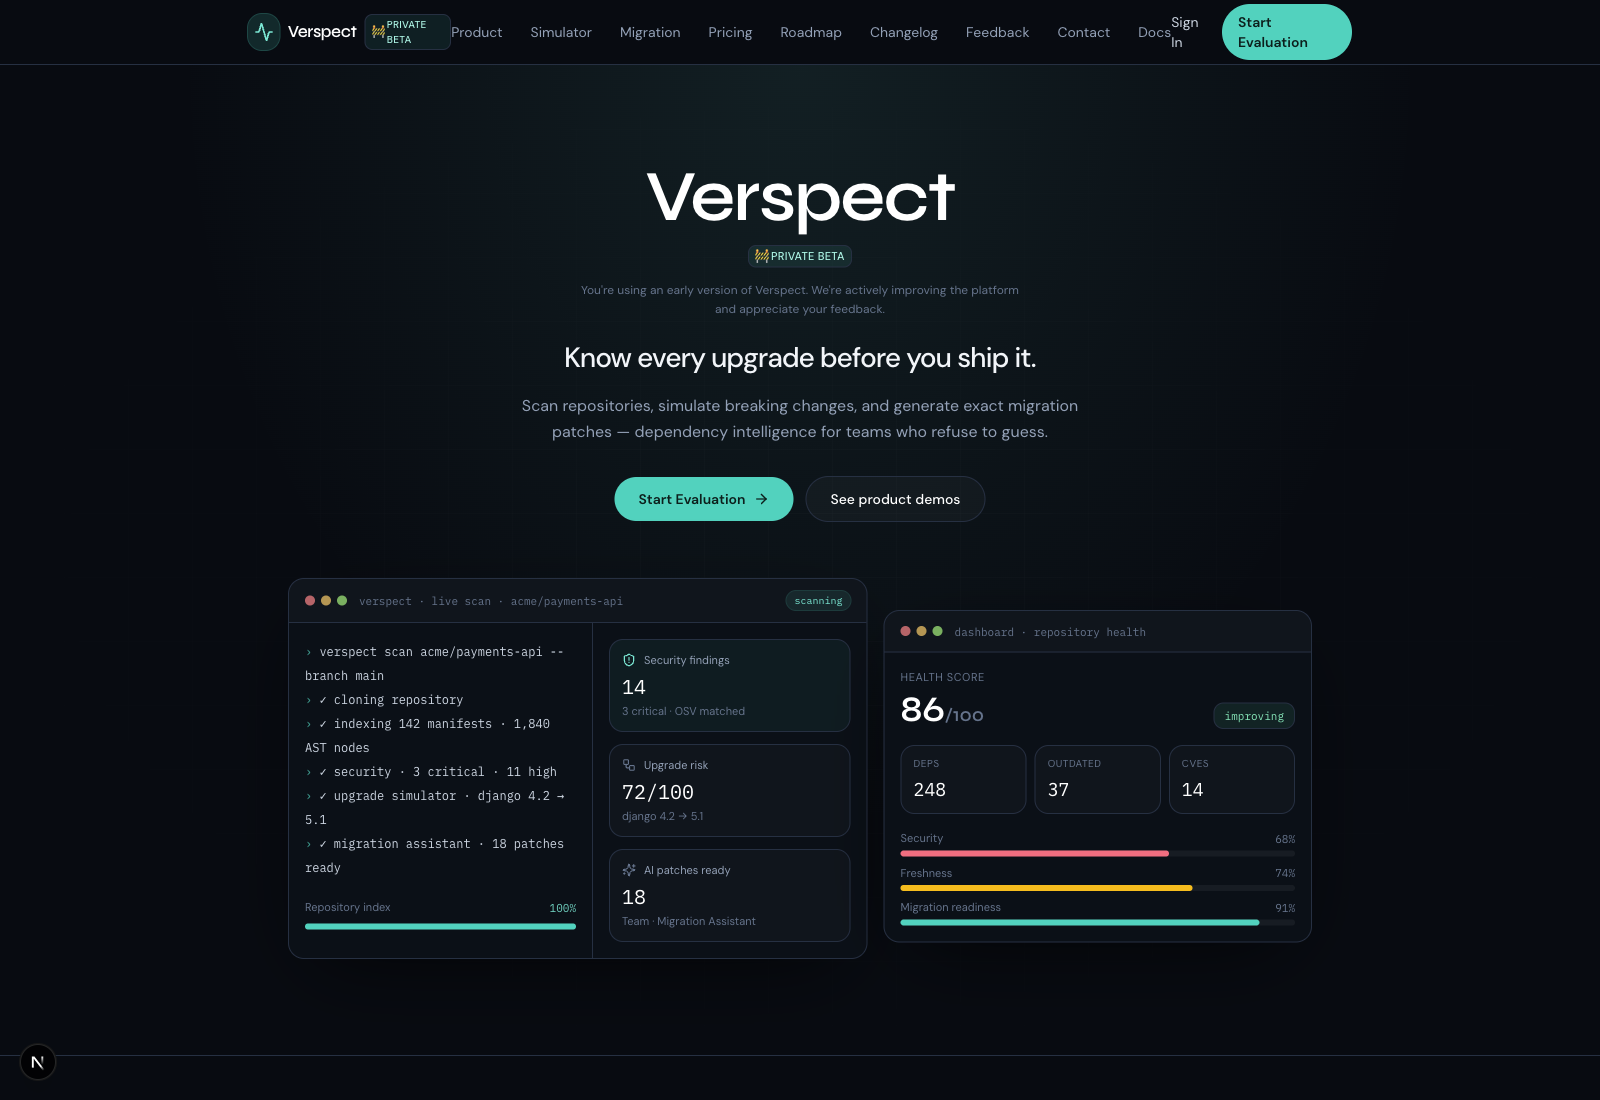
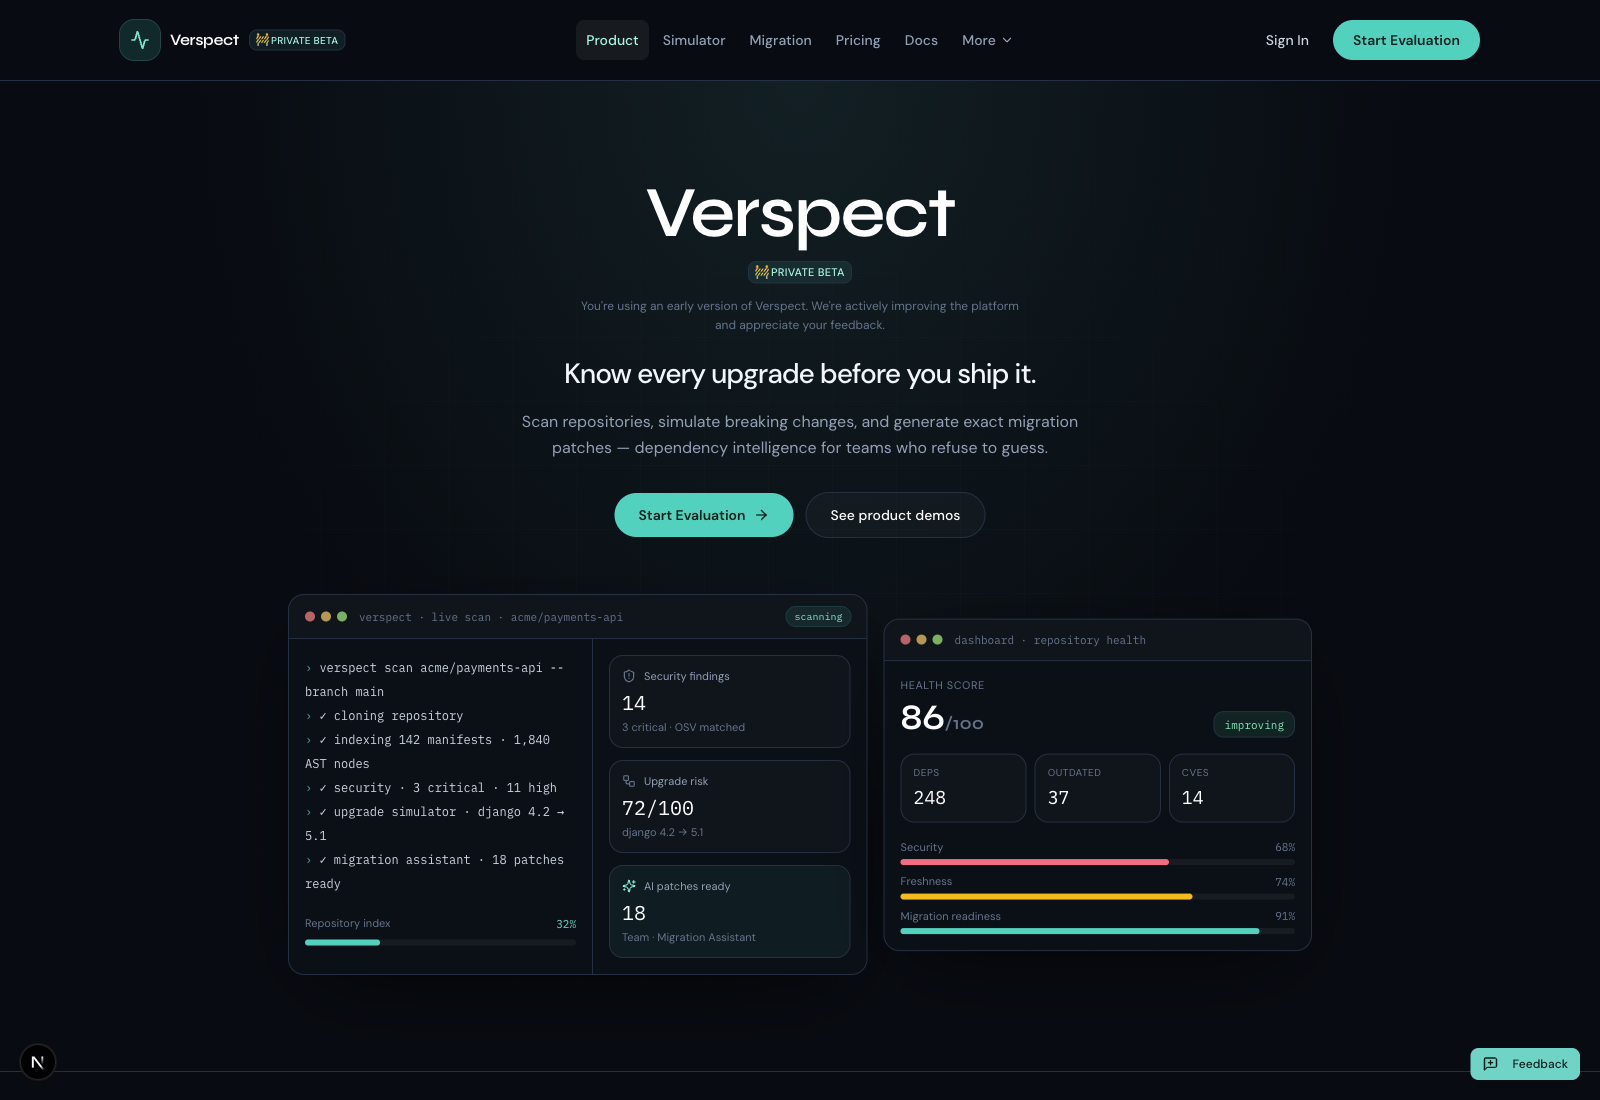
fix: improve marketing navigation

diff --git a/frontend/src/components/marketing/nav.tsx b/frontend/src/components/marketing/nav.tsx
@@ -1,91 +1,229 @@
 "use client";
 
 import Link from "next/link";
-import { useState } from "react";
-import { Activity, Menu, X } from "lucide-react";
+import { usePathname } from "next/navigation";
+import { useEffect, useRef, useState } from "react";
+import { Activity, ChevronDown, Menu, X } from "lucide-react";
 import { cn } from "@/lib/utils";
 import { PrivateBetaBadge } from "@/components/beta/private-beta-badge";
+import {
+  DropdownMenu,
+  DropdownMenuContent,
+  DropdownMenuItem,
+  DropdownMenuTrigger,
+} from "@/components/ui/dropdown-menu";
 
-const links = [
+const primaryLinks = [
   { href: "/#scan-demo", label: "Product" },
   { href: "/#simulator", label: "Simulator" },
   { href: "/#migration", label: "Migration" },
   { href: "/pricing", label: "Pricing" },
+  { href: "/docs", label: "Docs" },
+];
+
+const moreLinks = [
   { href: "/roadmap", label: "Roadmap" },
   { href: "/changelog", label: "Changelog" },
   { href: "/feedback", label: "Feedback" },
   { href: "/contact", label: "Contact" },
-  { href: "/docs", label: "Docs" },
 ];
+
+const mobileLinks = [...primaryLinks, ...moreLinks];
+
+const navItemClass =
+  "inline-flex min-h-10 items-center justify-center whitespace-nowrap rounded-md px-2.5 text-sm font-medium transition-colors focus-visible:outline focus-visible:outline-2 focus-visible:outline-offset-2 focus-visible:outline-teal-300";
 
 export function MarketingNav() {
   const [open, setOpen] = useState(false);
+  const [hash, setHash] = useState("");
+  const pathname = usePathname();
+  const menuButtonRef = useRef<HTMLButtonElement>(null);
+  const firstMobileLinkRef = useRef<HTMLAnchorElement>(null);
+
+  useEffect(() => {
+    const syncHash = () => setHash(window.location.hash);
+    syncHash();
+    window.addEventListener("hashchange", syncHash);
+    return () => window.removeEventListener("hashchange", syncHash);
+  }, [pathname]);
+
+  useEffect(() => {
+    setOpen(false);
+  }, [pathname]);
+
+  useEffect(() => {
+    if (!open) return;
+
+    firstMobileLinkRef.current?.focus();
+    const closeOnEscape = (event: KeyboardEvent) => {
+      if (event.key === "Escape") {
+        setOpen(false);
+        menuButtonRef.current?.focus();
+      }
+    };
+    window.addEventListener("keydown", closeOnEscape);
+    return () => window.removeEventListener("keydown", closeOnEscape);
+  }, [open]);
+
+  const isActive = (href: string) => {
+    if (href.startsWith("/#")) {
+      if (pathname !== "/") return false;
+      const targetHash = href.slice(1);
+      return (hash || "#scan-demo") === targetHash;
+    }
+    return pathname === href || pathname.startsWith(`${href}/`);
+  };
+
+  const linkClass = (href: string) =>
+    cn(
+      navItemClass,
+      isActive(href)
+        ? "bg-white/[0.06] text-teal-200"
+        : "text-slate-400 hover:bg-white/[0.04] hover:text-white",
+    );
+  const moreActive = moreLinks.some((link) => isActive(link.href));
+
   return (
     <header className="sticky top-0 z-50 border-b border-white/10 bg-[#070b12]/80 backdrop-blur-xl">
-      <div className="mx-auto flex h-16 max-w-6xl items-center justify-between px-4 sm:px-6">
-        <Link href="/" className="flex items-center gap-2">
-          <span className="flex h-9 w-9 items-center justify-center rounded-xl bg-teal-400/15 text-teal-300 ring-1 ring-teal-400/30">
+      <div className="mx-auto grid h-20 max-w-[1440px] grid-cols-[minmax(0,1fr)_auto] items-center gap-3 px-4 sm:px-6 xl:grid-cols-[minmax(250px,1fr)_auto_minmax(250px,1fr)] xl:gap-6 xl:px-10">
+        <Link
+          href="/"
+          aria-label="Verspect home"
+          className="flex min-w-0 items-center gap-2.5 whitespace-nowrap justify-self-start focus-visible:outline focus-visible:outline-2 focus-visible:outline-offset-4 focus-visible:outline-teal-300"
+        >
+          <span className="flex h-10 w-10 shrink-0 items-center justify-center rounded-xl bg-teal-400/15 text-teal-300 ring-1 ring-teal-400/30">
             <Activity className="h-5 w-5" />
           </span>
-          <span className="font-[family-name:var(--font-display)] text-sm font-semibold tracking-tight text-white sm:text-base">
+          <span className="font-[family-name:var(--font-display)] text-base font-semibold tracking-tight text-white">
             Verspect
           </span>
-          <PrivateBetaBadge variant="marketing" />
+          <PrivateBetaBadge variant="marketing" className="shrink-0" />
         </Link>
-        <nav className="hidden items-center gap-7 md:flex">
-          {links.map((l) => (
+
+        <nav aria-label="Primary navigation" className="hidden items-center gap-1 xl:flex">
+          {primaryLinks.map((link) => (
             <Link
-              key={l.href}
-              href={l.href}
-              className="text-sm text-slate-400 transition hover:text-white"
+              key={link.href}
+              href={link.href}
+              className={linkClass(link.href)}
+              aria-current={isActive(link.href) ? "page" : undefined}
             >
-              {l.label}
+              {link.label}
             </Link>
           ))}
+          <DropdownMenu>
+            <DropdownMenuTrigger
+              className={cn(
+                navItemClass,
+                moreActive
+                  ? "bg-white/[0.06] text-teal-200"
+                  : "text-slate-400 hover:bg-white/[0.04] hover:text-white",
+              )}
+              aria-label="More pages"
+            >
+              More <ChevronDown aria-hidden="true" className="ml-1 h-3.5 w-3.5" />
+            </DropdownMenuTrigger>
+            <DropdownMenuContent
+              align="center"
+              sideOffset={10}
+              className="min-w-48 border-white/10 bg-[#0b111b] p-1.5 text-slate-200 shadow-2xl"
+            >
+              {moreLinks.map((link) => (
+                <DropdownMenuItem key={link.href} asChild>
+                  <Link
+                    href={link.href}
+                    aria-current={isActive(link.href) ? "page" : undefined}
+                    className={cn(
+                      "min-h-10 px-3 text-sm focus:bg-white/[0.08] focus:text-white",
+                      isActive(link.href) && "text-teal-200",
+                    )}
+                  >
+                    {link.label}
+                  </Link>
+                </DropdownMenuItem>
+              ))}
+            </DropdownMenuContent>
+          </DropdownMenu>
         </nav>
-        <div className="hidden items-center gap-3 md:flex">
-          <Link href="/login" className="text-sm text-slate-300 hover:text-white">
+
+        <div className="hidden items-center justify-self-end gap-5 xl:flex">
+          <Link
+            href="/login"
+            className="whitespace-nowrap rounded-md px-1 py-2 text-sm font-medium text-slate-300 transition-colors hover:text-white focus-visible:outline focus-visible:outline-2 focus-visible:outline-offset-4 focus-visible:outline-teal-300"
+          >
             Sign In
           </Link>
           <Link
             href="/signup"
-            className="rounded-full bg-teal-400 px-4 py-2 text-sm font-semibold text-[#04201c] transition hover:bg-teal-300"
+            className="inline-flex min-h-10 shrink-0 items-center justify-center whitespace-nowrap rounded-full bg-teal-400 px-5 py-2.5 text-sm font-semibold leading-none text-[#04201c] transition-colors hover:bg-teal-300 focus-visible:outline focus-visible:outline-2 focus-visible:outline-offset-4 focus-visible:outline-teal-200"
           >
             Start Evaluation
           </Link>
         </div>
         <button
           type="button"
-          className="text-slate-300 md:hidden"
-          aria-label="Menu"
+          ref={menuButtonRef}
+          className="inline-flex h-11 w-11 items-center justify-center justify-self-end rounded-lg border border-white/10 text-slate-200 transition-colors hover:bg-white/[0.06] hover:text-white focus-visible:outline focus-visible:outline-2 focus-visible:outline-offset-2 focus-visible:outline-teal-300 xl:hidden"
+          aria-label={open ? "Close navigation menu" : "Open navigation menu"}
+          aria-expanded={open}
+          aria-controls="mobile-navigation-panel"
           onClick={() => setOpen((v) => !v)}
         >
-          {open ? <X /> : <Menu />}
+          {open ? (
+            <X aria-hidden="true" className="h-5 w-5" />
+          ) : (
+            <Menu aria-hidden="true" className="h-5 w-5" />
+          )}
         </button>
       </div>
-      <div className={cn("border-t border-white/10 md:hidden", open ? "block" : "hidden")}>
-        <div className="flex flex-col gap-2 px-4 py-4">
-          {links.map((l) => (
+
+      <div
+        id="mobile-navigation-panel"
+        className={cn(
+          "border-t border-white/10 bg-[#070b12] xl:hidden",
+          open ? "block" : "hidden",
+        )}
+      >
+        <nav
+          aria-label="Mobile navigation"
+          className="mx-auto max-h-[calc(100dvh-5rem)] max-w-[1440px] overflow-y-auto px-4 py-3 sm:px-6"
+        >
+          <div className="flex flex-col gap-1">
+            {mobileLinks.map((link, index) => (
+              <Link
+                key={link.href}
+                ref={index === 0 ? firstMobileLinkRef : undefined}
+                href={link.href}
+                className={cn(
+                  "flex min-h-11 items-center rounded-lg px-3 text-sm font-medium transition-colors focus-visible:outline focus-visible:outline-2 focus-visible:outline-offset-1 focus-visible:outline-teal-300",
+                  isActive(link.href)
+                    ? "bg-white/[0.06] text-teal-200"
+                    : "text-slate-300 hover:bg-white/[0.04] hover:text-white",
+                )}
+                aria-current={isActive(link.href) ? "page" : undefined}
+                onClick={() => setOpen(false)}
+              >
+                {link.label}
+              </Link>
+            ))}
+          </div>
+          <div className="mt-3 flex flex-col gap-2 border-t border-white/10 pt-3">
             <Link
-              key={l.href}
-              href={l.href}
-              className="py-2 text-sm text-slate-300"
+              href="/login"
+              className="flex min-h-11 items-center rounded-lg px-3 text-sm font-medium text-slate-300 transition-colors hover:bg-white/[0.04] hover:text-white focus-visible:outline focus-visible:outline-2 focus-visible:outline-offset-1 focus-visible:outline-teal-300"
               onClick={() => setOpen(false)}
             >
-              {l.label}
+              Sign In
             </Link>
-          ))}
-          <Link href="/login" className="py-2 text-sm text-slate-300" onClick={() => setOpen(false)}>
-            Sign In
-          </Link>
-          <Link
-            href="/signup"
-            className="rounded-full bg-teal-400 px-4 py-2 text-center text-sm font-semibold text-[#04201c]"
-            onClick={() => setOpen(false)}
-          >
-            Start Evaluation
-          </Link>
-        </div>
+            <Link
+              href="/signup"
+              className="inline-flex min-h-11 items-center justify-center rounded-full bg-teal-400 px-5 py-2.5 text-sm font-semibold leading-none text-[#04201c] transition-colors hover:bg-teal-300 focus-visible:outline focus-visible:outline-2 focus-visible:outline-offset-2 focus-visible:outline-teal-200"
+              onClick={() => setOpen(false)}
+            >
+              Start Evaluation
+            </Link>
+          </div>
+        </nav>
       </div>
     </header>
   );

diff --git a/frontend/src/components/marketing/nav.test.tsx b/frontend/src/components/marketing/nav.test.tsx
@@ -1,0 +1,89 @@
+import type { ComponentProps } from "react";
+import { fireEvent, render, screen, waitFor, within } from "@testing-library/react";
+import { afterEach, describe, expect, it, vi } from "vitest";
+import { MarketingNav } from "@/components/marketing/nav";
+
+const navigation = vi.hoisted(() => ({ pathname: "/" }));
+
+vi.mock("next/navigation", () => ({
+  usePathname: () => navigation.pathname,
+}));
+
+vi.mock("next/link", () => ({
+  default: ({ href, children, ...props }: ComponentProps<"a">) => (
+    <a href={href} {...props}>
+      {children}
+    </a>
+  ),
+}));
+
+describe("MarketingNav", () => {
+  afterEach(() => {
+    navigation.pathname = "/";
+  });
+
+  it("keeps primary destinations visible and groups secondary pages under More", async () => {
+    render(<MarketingNav />);
+
+    const primary = screen.getByRole("navigation", { name: "Primary navigation" });
+    for (const label of ["Product", "Simulator", "Migration", "Pricing", "Docs"]) {
+      expect(within(primary).getByRole("link", { name: label })).toBeTruthy();
+    }
+
+    const more = screen.getByRole("button", { name: "More pages" });
+    fireEvent.keyDown(more, { key: "ArrowDown" });
+    for (const label of ["Roadmap", "Changelog", "Feedback", "Contact"]) {
+      expect(await screen.findByRole("menuitem", { name: label })).toBeTruthy();
+    }
+  });
+
+  it("closes the More menu with Escape", async () => {
+    render(<MarketingNav />);
+
+    const more = screen.getByRole("button", { name: "More pages" });
+    fireEvent.keyDown(more, { key: "ArrowDown" });
+    expect(await screen.findByRole("menuitem", { name: "Roadmap" })).toBeTruthy();
+    fireEvent.keyDown(screen.getByRole("menu"), { key: "Escape" });
+
+    await waitFor(() => expect(screen.queryByRole("menu")).toBeNull());
+  });
+
+  it("exposes every destination and account action in the mobile menu and closes on Escape", () => {
+    render(<MarketingNav />);
+
+    const toggle = screen.getByRole("button", { name: "Open navigation menu" });
+    fireEvent.click(toggle);
+
+    expect(toggle.getAttribute("aria-expanded")).toBe("true");
+    const mobile = screen.getByRole("navigation", { name: "Mobile navigation" });
+    for (const label of [
+      "Product",
+      "Simulator",
+      "Migration",
+      "Pricing",
+      "Docs",
+      "Roadmap",
+      "Changelog",
+      "Feedback",
+      "Contact",
+      "Sign In",
+      "Start Evaluation",
+    ]) {
+      expect(within(mobile).getByRole("link", { name: label })).toBeTruthy();
+    }
+
+    fireEvent.keyDown(window, { key: "Escape" });
+    expect(toggle.getAttribute("aria-expanded")).toBe("false");
+    expect(document.activeElement).toBe(toggle);
+  });
+
+  it("marks the current route as active", () => {
+    navigation.pathname = "/pricing";
+    render(<MarketingNav />);
+
+    const primary = screen.getByRole("navigation", { name: "Primary navigation" });
+    expect(within(primary).getByRole("link", { name: "Pricing" }).getAttribute("aria-current")).toBe(
+      "page",
+    );
+  });
+});
